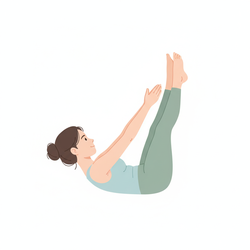
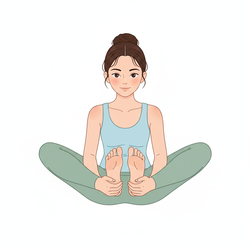
add more images

Changed region(s): [[0.14, 0.112, 0.868, 0.84]]

diff --git a/lib/asanaMapper.ts b/lib/asanaMapper.ts
@@ -1,46 +1,89 @@
 export const ASANA_IMAGES = [
-    "boat_pose.png", "bound_angle_pose.png", "bow_pose.png", "bridge_pose.png", "camel_pose.png", "cat_pose.png",
-    "chair_pose.png", "childs_pose.png", "cobra_pose.png", "cobra_pose_2.png", "compass_pose.png", "corpse_pose.png",
-    "cow_face_pose.png", "cow_pose.png", "crane_pose.png", "crescent_lunge_twist.png", "crow_pose.png", "dancer_pose.png",
-    "dolphin_pose.png", "downward_facing_dog.png", "dragon_pose.png", "easy_pose.png", "eight-angle_pose.png",
-    "extended_hand_to_big_toe_b.png", "fallen_triangle.png", "fire_log_pose.png", "firefly_pose.png", "fish_pose.png",
-    "flying_pigeon.png", "forearm_plank.png", "forearm_stand.png", "forward_fold.png", "four-limbed_staff_pose.png",
-    "garland_pose.png", "gate_pose.png", "goddess_pose.png", "half_boat_pose.png", "half_moon_pose.png", "halfway_lift.png",
-    "handstand.png", "happy_baby.png", "head_to_knee_pose.png", "headstand.png", "hero_pose.png", "heron_pose.png",
-    "high_lunge.png", "knees_to_chest.png", "legs_up_the_wall.png", "lizard_pose.png", "lotus_pose.png", "low_lunge.png",
-    "marichis_pose.png", "monkey_pose.png", "mountain_pose.png", "noose_pose.png", "peacock_pose.png", "pigeon_pose.png",
-    "plank_pose.png", "plow_pose.png", "puppy_pose.png", "pyramid_pose.png", "ragdoll_pose.png", "reclined_bound_angle.png",
-    "reclined_hand_to_big_toe.png", "reclining_hero.png", "reverse_table_top.png", "revolved_chair.png", "revolved_half_moon.png",
-    "revolved_triangle.png", "scale_pose.png", "seated_forward_fold.png", "seated_twist.png", "shoulder_pressing_pose.png",
-    "shoulderstand.png", "side_crow.png", "side_plank.png", "sleeping_pigeon.png", "sphinx_pose.png", "staff_pose.png",
-    "standing_backbend.png", "standing_hand_to_big_toe.png", "standing_split.png", "supine_twist.png", "supported_headstand.png",
-    "thread_the_needle.png", "thunderbolt_pose.png", "tortoise_pose.png", "tree_pose.png", "twisted_lizard.png",
-    "upward_facing_dog.png", "upward_salute.png", "warrior_i.png", "warrior_ii.png", "warrior_iii.png", "wheel_pose.png",
-    "wide-angle_seated_forward_fold.png", "wide-legged_forward_fold.png", "wild_thing.png", "wind_relieving_pose.png"
+    "bird-dog_right.png", "boat_pose.png", "bound_angle_pose.png", "bow_pose.png", "bridge_pose.png", "butterfly_pose.png",
+    "camel_pose.png", "cat_cow_pose.png", "cat_pose.png", "chair_pose.png", "childs_pose.png", "cobra_pose.png",
+    "cobra_pose_2.png", "compass_pose.png", "corpse_pose.png", "cow_face_pose.png", "cow_pose.png", "crane_pose.png",
+    "crescent_lunge_twist.png", "crow_pose.png", "dancers_pose.jpeg", "dancers_pose.png", "dolphin_pose.png", "downward_facing_dog.png",
+    "dragon_pose.png", "eagle_pose.jpeg", "eagle_pose.png", "easy_pose.png", "easy_twisted_pose.png", "eight-angle_pose.png",
+    "extended_hand_to_big_toe_b.png", "extended_side_angle.png", "extended_side_angle_right.png", "fallen_triangle.png", "fire_log_pose.png", "firefly_pose.png",
+    "fish_pose.jpeg", "flying_pigeon.png", "forearm_plank.png", "forearm_stand.png", "forward_fold.png", "four-limbed_staff_pose.png",
+    "full_monkey_pose.jpeg", "garland_pose.png", "gate_pose.png", "goddess_pose.png", "half_boat_pose.png", "half_lift_pose.jpeg",
+    "half_lord_of_the_fishes_pose.jpeg", "half_moon_pose.png", "half_splits_pose.jpeg", "halfway_lift.png", "handstand.png", "happy_baby.png",
+    "head-to-knee_pose_left.png", "head_to_knee_pose.png", "headstand.png", "hero_pose.png", "heron_pose.png", "high_lunge.png",
+    "knees_to_chest.png", "legs_up_the_wall.png", "lizard_pose.png", "locust_pose.png", "lotus_pose.png", "low_lunge.png",
+    "marichis_pose.png", "monkey_pose.png", "mountain_pose.png", "neck_circles.png", "noose_pose.png", "peacock_pose.png",
+    "pigeon_pose.png", "plank_pose.png", "plow_pose.png", "puppy_pose.png", "pyramid_pose.png", "ragdoll_pose.png",
+    "reclined_bound_angle.png", "reclined_hand_to_big_toe.png", "reclining_hero.png", "reverse_table_top.png", "reverse_warrior_left.png", "reverse_warrior_right.png",
+    "reversed_triangle.png", "revolved_chair.png", "revolved_half_moon.png", "revolved_lunge.jpeg", "revolved_triangle.png", "scale_pose.png",
+    "seated_cat-cow.png", "seated_forward_fold.png", "seated_side_stretch.png", "seated_twist.png", "shoulder_pressing_pose.png", "shoulderstand.png",
+    "side_crow.png", "side_lunge_pose.jpeg", "side_plank.png", "sleeping_pigeon.png", "sphinx_pose.png", "staff_pose.png",
+    "standing_backbend.png", "standing_forward_fold_pose.png", "standing_hand_to_big_toe.png", "standing_split.png", "supine_spinal_twist_pose.jpeg", "supine_twist.png",
+    "supine_twist_left.png", "supported_headstand.png", "tabletop_pose.png", "thread_the_needle.png", "thunderbolt_pose.png", "tortoise_pose.png",
+    "tree_pose.png", "tree_pose_left.png", "tree_pose_right.png", "triangle_pose.png", "triangle_pose_left.png", "triangle_pose_right.png",
+    "twisted_lizard.png", "upward_facing_dog.png", "upward_salute.png", "warrior_i.png", "warrior_i_left.png", "warrior_i_right.png",
+    "warrior_ii.png", "warrior_ii_left.png", "warrior_ii_right.png", "warrior_iii.png", "wheel_pose.png", "wide-angle_seated_forward_fold.png",
+    "wide-legged_forward_fold.png", "wild_thing.png", "wind_relieving_pose.png", "yogi_squat.png"
 ];
 
 export function getAsanaImage(name: string, sanskritName?: string): string | null {
     const normalize = (str?: string) => (str || '').toLowerCase().replace(/[^a-z0-9]/g, '');
 
-    const normName = normalize(name);
+    let normName = normalize(name);
     const normSanskrit = normalize(sanskritName);
 
+    // Manual Aliases
+    if (normName.includes('seatedforwardbend') || normName.includes('paschimottanasana')) {
+        normName = 'seatedforwardfold';
+    }
+    if (normName === 'vinyasa' || normName.includes('planktochaturanga') || normName.includes('phalakasanatochaturanga')) {
+        normName = 'chaturangapose';
+    }
+
+    const checkMatch = (targetName: string, targetSanskrit?: string) => {
+        for (const file of ASANA_IMAGES) {
+            const normFile = normalize(file.replace(/\.(png|jpeg|jpg)$/i, ''));
+            if (normFile === targetName || (targetSanskrit && normFile === targetSanskrit)) {
+                return `/asanas/${file}`;
+            }
+        }
+        return null;
+    };
+
+    // 1. Exact match
+    let result = checkMatch(normName, normSanskrit);
+    if (result) return result;
+
+    // 2. Handle specific cases like Pigeon or Chaturanga
+    if (normName.includes('pigeon')) {
+        const pigeonMatch = checkMatch('pigeonpose');
+        if (pigeonMatch) return pigeonMatch;
+    }
+    if (normName.includes('chaturanga')) {
+        const chaturangaMatch = checkMatch('chaturangapose');
+        if (chaturangaMatch) return chaturangaMatch;
+    }
+
+    // 3. Handle Right/Left/Air/etc by stripping them
+    const strippedName = normName.replace(/right|left|air|side/g, '');
+    if (strippedName !== normName) {
+        result = checkMatch(strippedName);
+        if (result) return result;
+    }
+
+    // 4. Try partial match
     for (const file of ASANA_IMAGES) {
-        const normFile = normalize(file.replace('.png', ''));
-        if (normFile === normName || (normSanskrit && normFile === normSanskrit)) {
+        const normFile = normalize(file.replace(/\.(png|jpeg|jpg)$/i, ''));
+        if (normFile.length > 5 && (normName.includes(normFile) || normFile.includes(normName))) {
+            return `/asanas/${file}`;
+        }
+        if (normSanskrit.length > 5 && (normSanskrit.includes(normFile) || normFile.includes(normSanskrit))) {
             return `/asanas/${file}`;
         }
     }
 
-    // Second pass: try partial match
-    for (const file of ASANA_IMAGES) {
-        const normFile = normalize(file.replace('.png', ''));
-        if (normName.length > 5 && normFile.includes(normName)) {
-            return `/asanas/${file}`;
-        }
-        if (normSanskrit.length > 5 && normFile.includes(normSanskrit)) {
-            return `/asanas/${file}`;
-        }
+    // 5. Hardcoded fallbacks
+    if (normName.includes('supinetwist')) {
+        const twistMatch = checkMatch('supinespinaltwistpose') || checkMatch('supinetwist');
+        if (twistMatch) return twistMatch;
     }
 
     return null;

diff --git a/app/generate-asanas/page.tsx b/app/generate-asanas/page.tsx
@@ -278,7 +278,7 @@ const GenerateAsanas = () => {
                                         src={getAsanaImage(asana.name, asana.sanskritName)!}
                                         alt={asana.name}
                                         fill
-                                        className="object-contain"
+                                        className="object-contain mix-blend-multiply filter contrast-[1.1] brightness-[1.05]"
                                         sizes="(max-width: 1024px) 100vw, 256px"
                                       />
                                     ) : (